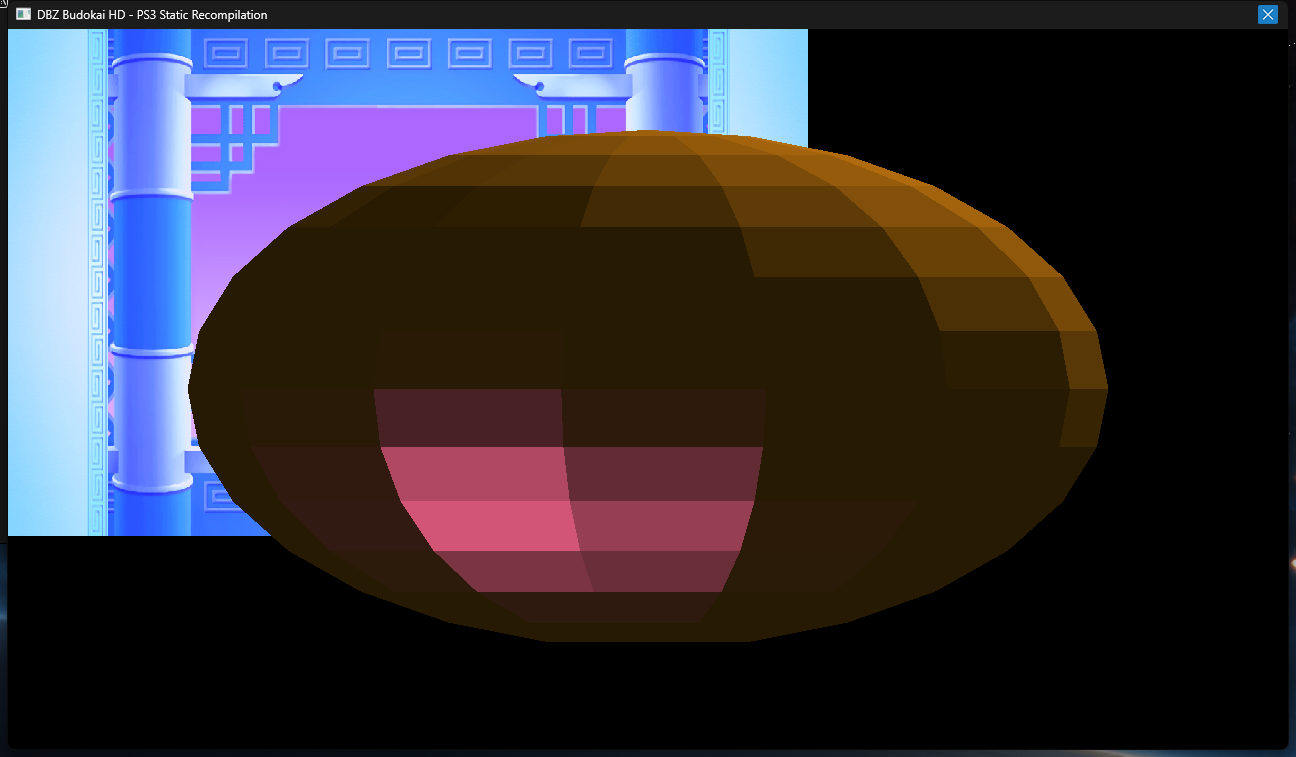
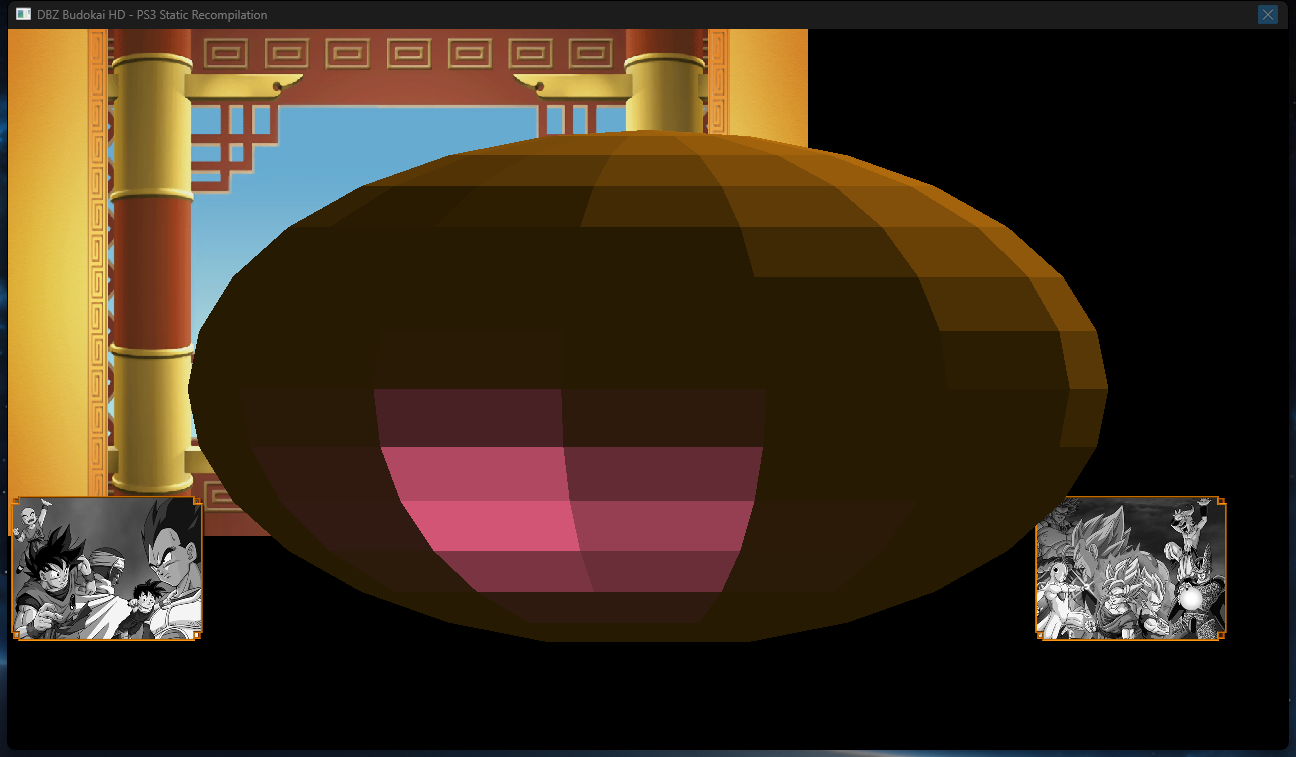
Rendering: generic #A3T loader, Morton de-swizzle, character overlay art, fix window hold
- runtime_glue.cpp: replace hardcoded entry-15 loader with generic load_a3t_entry()
  that scans the CellGcmTexture struct, handles R5G6B5 (format 0xA4/0x84) and
  A8R8G8B8 (0xA5/0x85), and de-swizzles Morton Z-order textures (LN flag 0x20 clear)
  using a bit-spread interleave.  Entries 12 and 13 (512x512 swizzled BGRA8) are
  loaded as alpha-blended corner overlays showing DBZ character group portraits.
  New blit_overlay() helper does nearest-neighbour scale + per-pixel alpha blend.

- main.cpp: fix window-hold bug — sys_process_exit longjmps to the setjmp site which
  previously exited immediately, bypassing the Sleep(3000) below.  The setjmp branch
  now holds 5 seconds, signals threads, and joins before shutdown.

diff --git a/runtime_glue.cpp b/runtime_glue.cpp
@@ -527,46 +527,165 @@ static uint32_t g_frame_no = 0;
 static uint8_t* g_bg_pixels = nullptr;
 static int      g_bg_w = 0, g_bg_h = 0;
 
-extern "C" void rsx_load_launch_background(const char* afs_path) {
+/* Overlay textures: entries 12 and 13 (512×512 A8R8G8B8, game logo/title art). */
+static uint8_t* g_overlay1_pixels = nullptr;
+static int      g_overlay1_w = 0, g_overlay1_h = 0;
+static uint8_t* g_overlay2_pixels = nullptr;
+static int      g_overlay2_w = 0, g_overlay2_h = 0;
+
+/* Morton-code helpers for de-swizzling PS3 "SZ" (non-linear) textures.
+ * GCM format bytes WITHOUT bit 0x20 (the LN flag) store pixels in Z-order:
+ * x bits in even positions, y bits in odd positions. */
+static uint32_t morton_spread(uint32_t v) {
+    v = (v | (v << 8)) & 0x00FF00FFu;
+    v = (v | (v << 4)) & 0x0F0F0F0Fu;
+    v = (v | (v << 2)) & 0x33333333u;
+    v = (v | (v << 1)) & 0x55555555u;
+    return v;
+}
+static uint32_t morton2d(uint32_t x, uint32_t y) {
+    return morton_spread(x) | (morton_spread(y) << 1);
+}
+
+/* Generic #A3T entry loader: reads any AFS entry, auto-detects R5G6B5/A8R8G8B8,
+ * handles linear (LN flag 0x20 set) and swizzled (Morton Z-order, LN clear) storage,
+ * and converts to host BGRA8. Returns true on success. */
+static bool load_a3t_entry(const char* afs_path, int entry_idx,
+                            uint8_t** out_pixels, int* out_w, int* out_h) {
     FILE* f = fopen(afs_path, "rb");
-    if (!f) {
-        fprintf(stderr, "[BG] cannot open '%s' (background skipped)\n", afs_path);
-        fflush(stderr);
-        return;
-    }
+    if (!f) return false;
+
     char magic[4]; fread(magic, 1, 4, f);
-    if (magic[0]!='A'||magic[1]!='F'||magic[2]!='S') {
-        fprintf(stderr, "[BG] bad magic in '%s'\n", afs_path);
-        fclose(f); return;
-    }
-    /* Entry 15: AFS directory at offset 8 + 15*8 = 128 bytes. */
-    fseek(f, 8 + 15*8, SEEK_SET);
+    if (magic[0]!='A'||magic[1]!='F'||magic[2]!='S') { fclose(f); return false; }
+
+    fseek(f, 8 + entry_idx * 8, SEEK_SET);
     uint32_t entry_off = 0, entry_sz = 0;
     fread(&entry_off, 4, 1, f);
     fread(&entry_sz,  4, 1, f);
 
-    /* Entry 15 layout: 0xE0-byte #A3T header, then 2048×1024 BGRA8 pixel data. */
-    const uint32_t HDR_SZ = 0xE0u;
-    const int TEX_W = 2048, TEX_H = 1024;
-    if (entry_sz <= HDR_SZ) {
-        fprintf(stderr, "[BG] entry 15 too small (%u)\n", entry_sz);
-        fclose(f); return;
+    fseek(f, (long)entry_off, SEEK_SET);
+    uint8_t hdr[0xE0];
+    if (fread(hdr, 1, 0xE0, f) != 0xE0) { fclose(f); return false; }
+    if (hdr[0]!='#'||hdr[1]!='A'||hdr[2]!='3'||hdr[3]!='T') { fclose(f); return false; }
+
+    /* Scan header for CellGcmTexture struct (format + mipmap + dim=2 + power-of-2 dims). */
+    static const uint8_t VALID_FMT[] = {0x84, 0x85, 0xA4, 0xA5};
+    int gcm_off = -1;
+    uint8_t fmt_byte = 0;
+    int tex_w = 0, tex_h = 0;
+    for (int i = 0x18; i <= 0xC0; i++) {
+        uint8_t fmt = hdr[i];
+        bool ok = false;
+        for (uint8_t v : VALID_FMT) if (fmt == v) { ok = true; break; }
+        if (!ok) continue;
+        if (hdr[i+2] != 0x02) continue;
+        if (hdr[i+1] < 1 || hdr[i+1] > 12) continue;
+        int tw = (hdr[i+8]<<8)|hdr[i+9];
+        int th = (hdr[i+10]<<8)|hdr[i+11];
+        if (tw < 64 || tw > 4096 || (tw & (tw-1)) != 0) continue;
+        if (th < 64 || th > 4096 || (th & (th-1)) != 0) continue;
+        gcm_off = i; fmt_byte = fmt; tex_w = tw; tex_h = th;
+        break;
     }
-    uint32_t pixel_sz = entry_sz - HDR_SZ;
-    uint8_t* pix = new uint8_t[pixel_sz];
-    fseek(f, (long)(entry_off + HDR_SZ), SEEK_SET);
-    size_t got = fread(pix, 1, pixel_sz, f);
+    if (gcm_off < 0) { fclose(f); return false; }
+
+    /* Pixel data always starts 0x68 bytes after the GCM struct. */
+    fseek(f, (long)entry_off + gcm_off + 0x68, SEEK_SET);
+
+    bool linear = (fmt_byte & 0x20u) != 0;   /* LN flag: 0x20 set = linear, clear = swizzled */
+    int n = tex_w * tex_h;
+    uint8_t* out = new uint8_t[n * 4];
+
+    if ((fmt_byte & 0x1Fu) == 0x04) {
+        /* R5G6B5 big-endian → BGRA8 (all R5G6B5 entries observed are linear) */
+        uint8_t* src = new uint8_t[n * 2];
+        fread(src, 2, n, f);
+        for (int y = 0; y < tex_h; y++) {
+            for (int x = 0; x < tex_w; x++) {
+                int si = linear ? (y * tex_w + x) : (int)morton2d(x, y);
+                uint16_t px = ((uint16_t)src[si*2] << 8) | src[si*2+1];
+                int di = y * tex_w + x;
+                int r5 = (px >> 11) & 0x1F;
+                int g6 = (px >> 5) & 0x3F;
+                int b5 = px & 0x1F;
+                out[di*4+0] = (uint8_t)((b5 << 3) | (b5 >> 2));
+                out[di*4+1] = (uint8_t)((g6 << 2) | (g6 >> 4));
+                out[di*4+2] = (uint8_t)((r5 << 3) | (r5 >> 2));
+                out[di*4+3] = 0xFF;
+            }
+        }
+        delete[] src;
+    } else {
+        /* A8R8G8B8 big-endian → BGRA8, with Morton de-swizzle for non-linear format */
+        uint8_t* src = new uint8_t[n * 4];
+        fread(src, 4, n, f);
+        for (int y = 0; y < tex_h; y++) {
+            for (int x = 0; x < tex_w; x++) {
+                int si = linear ? (y * tex_w + x) : (int)morton2d(x, y);
+                int di = y * tex_w + x;
+                out[di*4+0] = src[si*4+3];
+                out[di*4+1] = src[si*4+2];
+                out[di*4+2] = src[si*4+1];
+                out[di*4+3] = src[si*4+0];
+            }
+        }
+        delete[] src;
+    }
     fclose(f);
-    if (got != pixel_sz) {
-        fprintf(stderr, "[BG] short read %zu/%u\n", got, pixel_sz);
-        delete[] pix; return;
+    *out_pixels = out; *out_w = tex_w; *out_h = tex_h;
+    return true;
+}
+
+extern "C" void rsx_load_launch_background(const char* afs_path) {
+    /* Entry 15: 2048×1024 A8R8G8B8 — the DBZ launcher menu panel. */
+    if (load_a3t_entry(afs_path, 15, &g_bg_pixels, &g_bg_w, &g_bg_h)) {
+        fprintf(stderr, "[BG] loaded entry 15 %dx%d BGRA8 from '%s'\n",
+                g_bg_w, g_bg_h, afs_path);
+    } else {
+        fprintf(stderr, "[BG] cannot load entry 15 from '%s' (background skipped)\n", afs_path);
     }
-    delete[] g_bg_pixels;
-    g_bg_pixels = pix;
-    g_bg_w = TEX_W; g_bg_h = TEX_H;
-    fprintf(stderr, "[BG] loaded LAUNCH background %dx%d BGRA8 (%u bytes) from '%s'\n",
-            TEX_W, TEX_H, pixel_sz, afs_path);
+    /* Entries 12 & 13: 512×512 A8R8G8B8 — game title/logo art with alpha. */
+    if (load_a3t_entry(afs_path, 12, &g_overlay1_pixels, &g_overlay1_w, &g_overlay1_h)) {
+        fprintf(stderr, "[BG] loaded entry 12 %dx%d BGRA8 overlay\n",
+                g_overlay1_w, g_overlay1_h);
+    }
+    if (load_a3t_entry(afs_path, 13, &g_overlay2_pixels, &g_overlay2_w, &g_overlay2_h)) {
+        fprintf(stderr, "[BG] loaded entry 13 %dx%d BGRA8 overlay\n",
+                g_overlay2_w, g_overlay2_h);
+    }
     fflush(stderr);
+}
+
+/* Draw src BGRA8 texture into framebuffer with alpha-blending at screen position (ox,oy).
+ * dst_w/dst_h = size to render on screen (nearest-neighbour scaled from src_w×src_h). */
+static void blit_overlay(uint32_t* fb, int fb_w, int fb_h,
+                          const uint8_t* src, int src_w, int src_h,
+                          int ox, int oy, int dst_w, int dst_h) {
+    for (int dy = 0; dy < dst_h; dy++) {
+        int sy = dy * src_h / dst_h;
+        int screen_y = oy + dy;
+        if (screen_y < 0 || screen_y >= fb_h) continue;
+        const uint8_t* srow = src + sy * src_w * 4;
+        uint32_t* drow = fb + screen_y * fb_w;
+        for (int dx = 0; dx < dst_w; dx++) {
+            int sx = dx * src_w / dst_w;
+            int screen_x = ox + dx;
+            if (screen_x < 0 || screen_x >= fb_w) continue;
+            const uint8_t* s = srow + sx * 4;
+            uint8_t sa = s[3];
+            if (sa == 0) continue;
+            if (sa == 255) {
+                drow[screen_x] = 0xFF000000u | ((uint32_t)s[2]<<16) | ((uint32_t)s[1]<<8) | s[0];
+            } else {
+                uint32_t dst = drow[screen_x];
+                uint32_t db = dst & 0xFF, dg = (dst>>8)&0xFF, dr = (dst>>16)&0xFF;
+                uint32_t nb = db + ((s[0]-db)*sa>>8);
+                uint32_t ng = dg + ((s[1]-dg)*sa>>8);
+                uint32_t nr = dr + ((s[2]-dr)*sa>>8);
+                drow[screen_x] = 0xFF000000u | (nr<<16) | (ng<<8) | nb;
+            }
+        }
+    }
 }
 
 static void frame_begin(int W, int H) {
@@ -593,6 +712,14 @@ static void frame_begin(int W, int H) {
         uint32_t bg = 0xFF080810u;
         for (int i = 0; i < n; i++) fb[i] = bg;
     }
+    /* Overlay entries 12 & 13 (512×512 game logo art) in bottom corners, 256×256 display size. */
+    const int OVL_SIZE = 256;
+    if (g_overlay1_pixels && g_overlay1_w > 0)
+        blit_overlay(fb, W, H, g_overlay1_pixels, g_overlay1_w, g_overlay1_h,
+                     0, H - OVL_SIZE, OVL_SIZE, OVL_SIZE);
+    if (g_overlay2_pixels && g_overlay2_w > 0)
+        blit_overlay(fb, W, H, g_overlay2_pixels, g_overlay2_w, g_overlay2_h,
+                     W - OVL_SIZE, H - OVL_SIZE, OVL_SIZE, OVL_SIZE);
     for (int i = 0; i < n; i++) g_z_buf[i] = 2.0f;
 }
 

diff --git a/main.cpp b/main.cpp
@@ -416,8 +416,11 @@ int main(int argc, char* argv[]) {
 #ifdef _WIN32
     /* setjmp target for sys_process_exit — longjmp(g_process_exit_jmpbuf,1) unwinds here. */
     if (setjmp(g_process_exit_jmpbuf) != 0) {
-        printf("Process exited normally (code=%d). Initialization complete.\n",
+        printf("Process exited normally (code=%d). Holding window...\n",
                g_process_exit_code);
+        Sleep(5000);  /* Hold rendered frame visible before shutdown */
+        g_threads_should_exit = true;
+        thread_runtime_join_all();
         vm_shutdown();
         return 0;
     }
